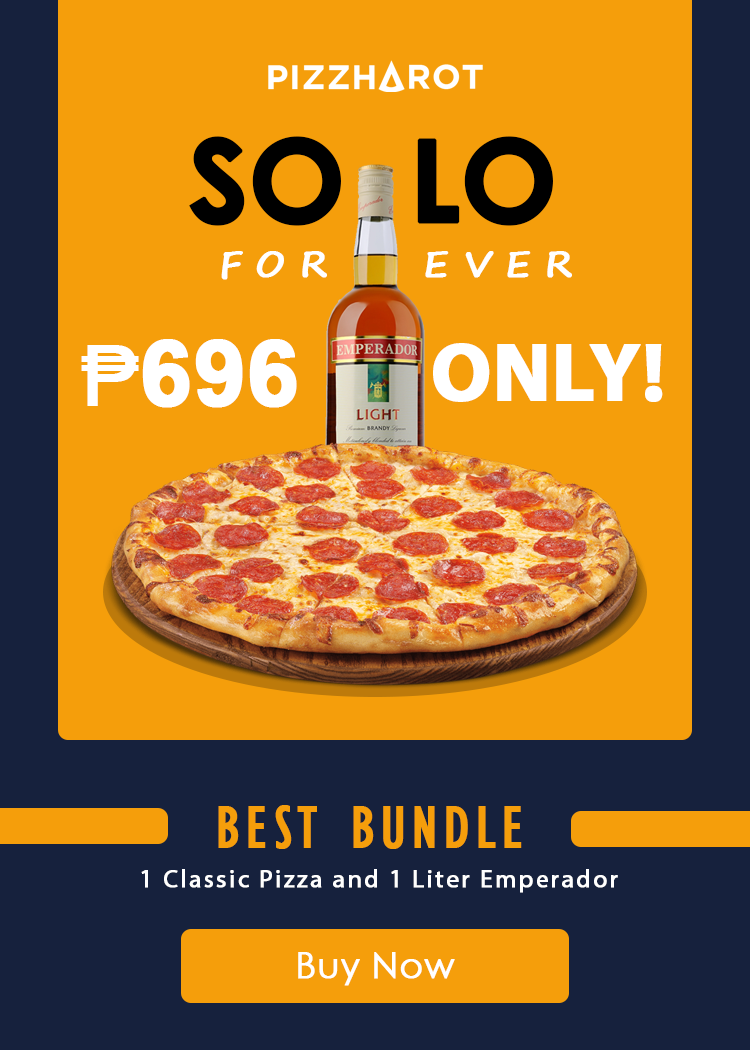
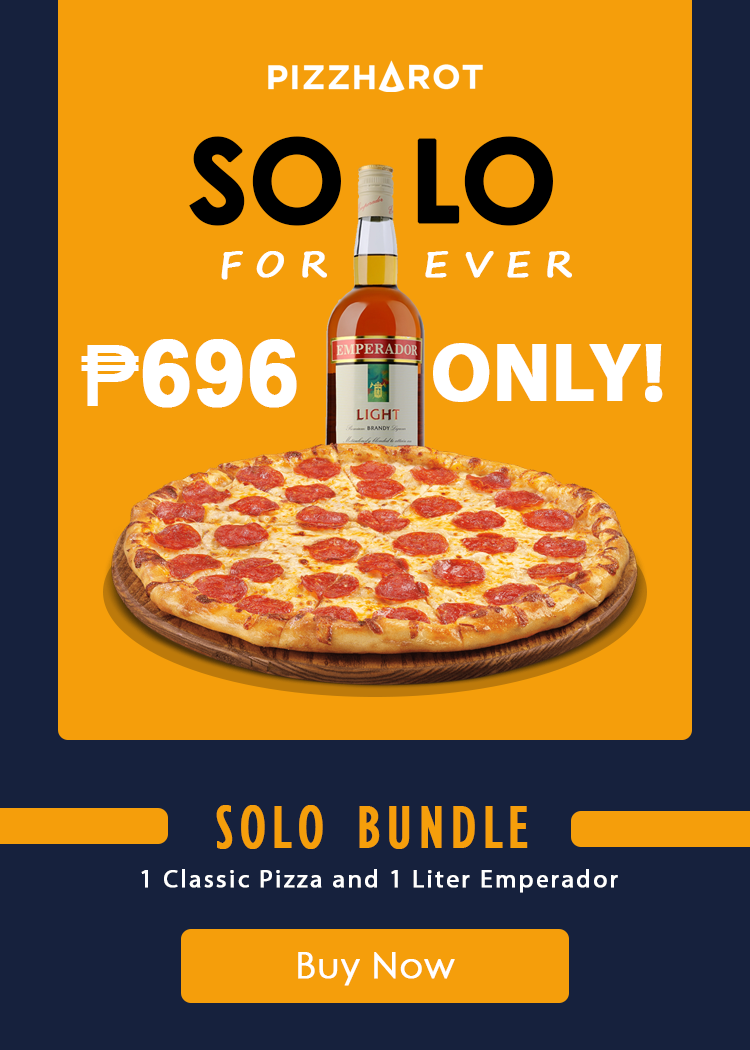
Changing Bundle image

Changed region(s): [[0.46, 0.7619, 0.7053, 0.8229], [0.276, 0.7619, 0.4293, 0.8229]]

diff --git a/src/components/Bundle.jsx b/src/components/Bundle.jsx
@@ -1,18 +1,18 @@
 import React from 'react'
 import Bundle1 from '../assets/bundleSolo.png'
 import Bundle2 from '../assets/bundleDuo.png'
-import Bundle3 from '../assets/bundleBox.png'
+import Bundle3 from '../assets/bundleHampasLupa.png'
 const Bundle = () => {
   return (
     <div className='w-full px-6 py-16'>
         <div className='max-w-[1240px] mx-auto grid md:grid-cols-3 grid-cols-1 gap-4'>
-            <div className='flex flex-row md:col-span-2 md:row-span-2 col-span-1 row-span-1 mx-auto'>
+            <div className='cursor-pointer lex flex-row md:col-span-2 md:row-span-2 col-span-1 row-span-1 mx-auto'>
                 <img src={Bundle3} alt="" />
             </div>
-            <div className='flex flex-row'>
+            <div className='cursor-pointer flex flex-row'>
                 <img src={Bundle1} alt="" />
             </div>
-            <div className='flex flex-row'>
+            <div className='cursor-pointer flex flex-row'>
                 <img src={Bundle2} alt="" />
             </div>
          
